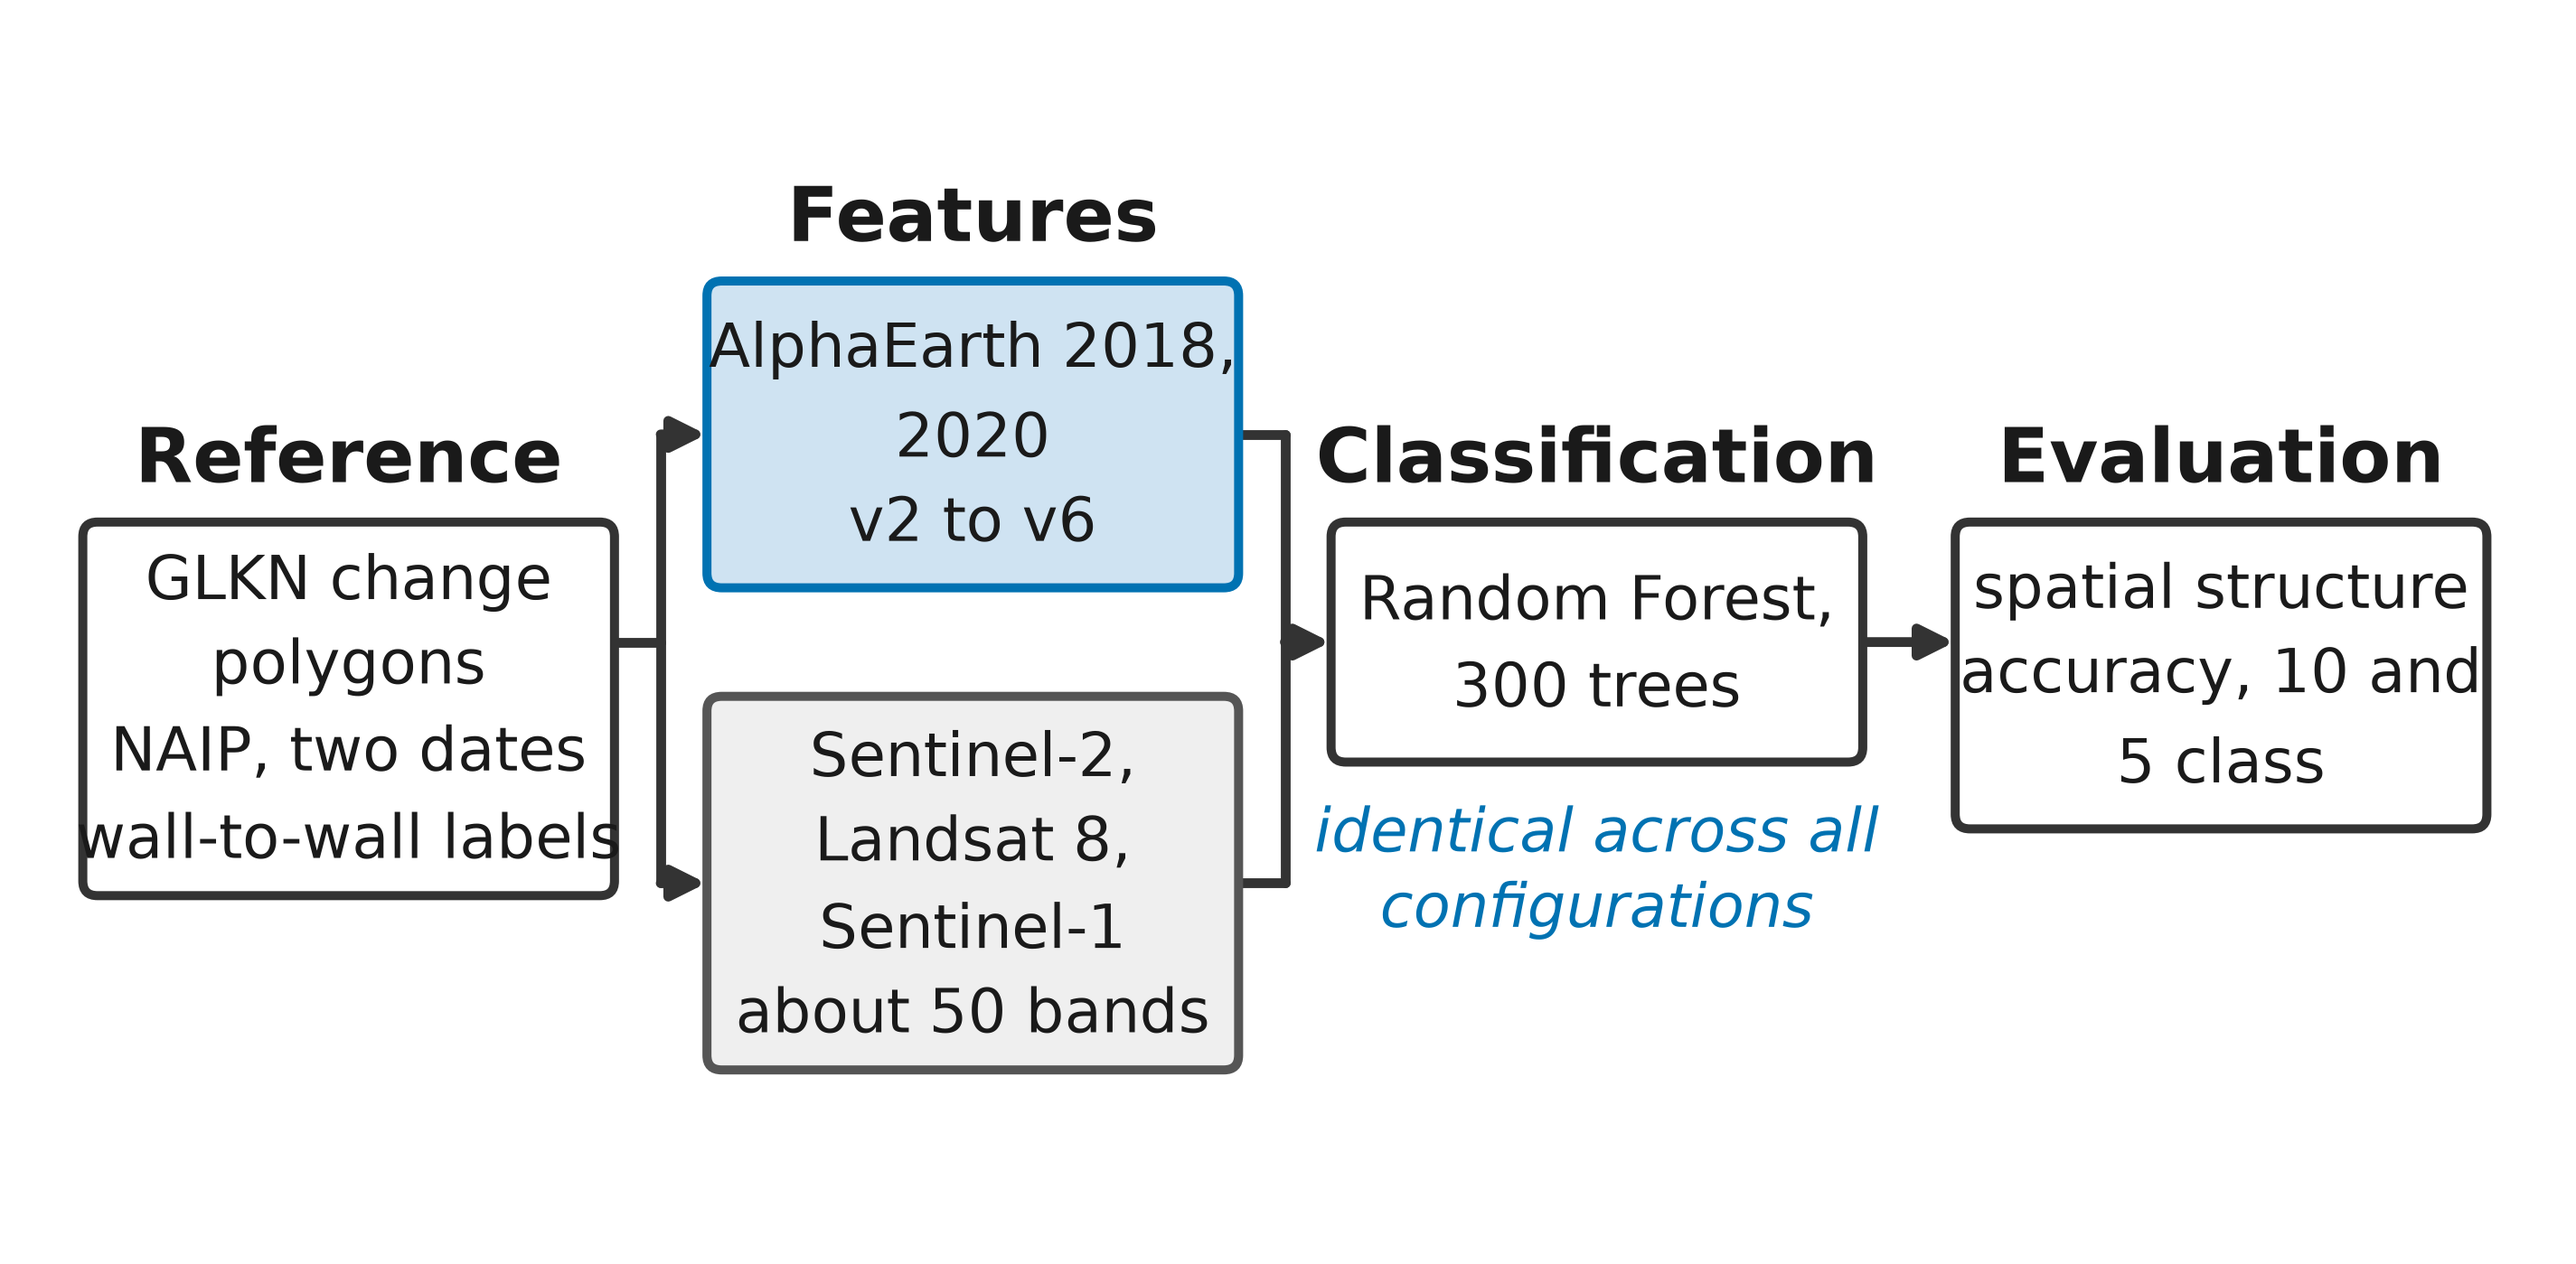
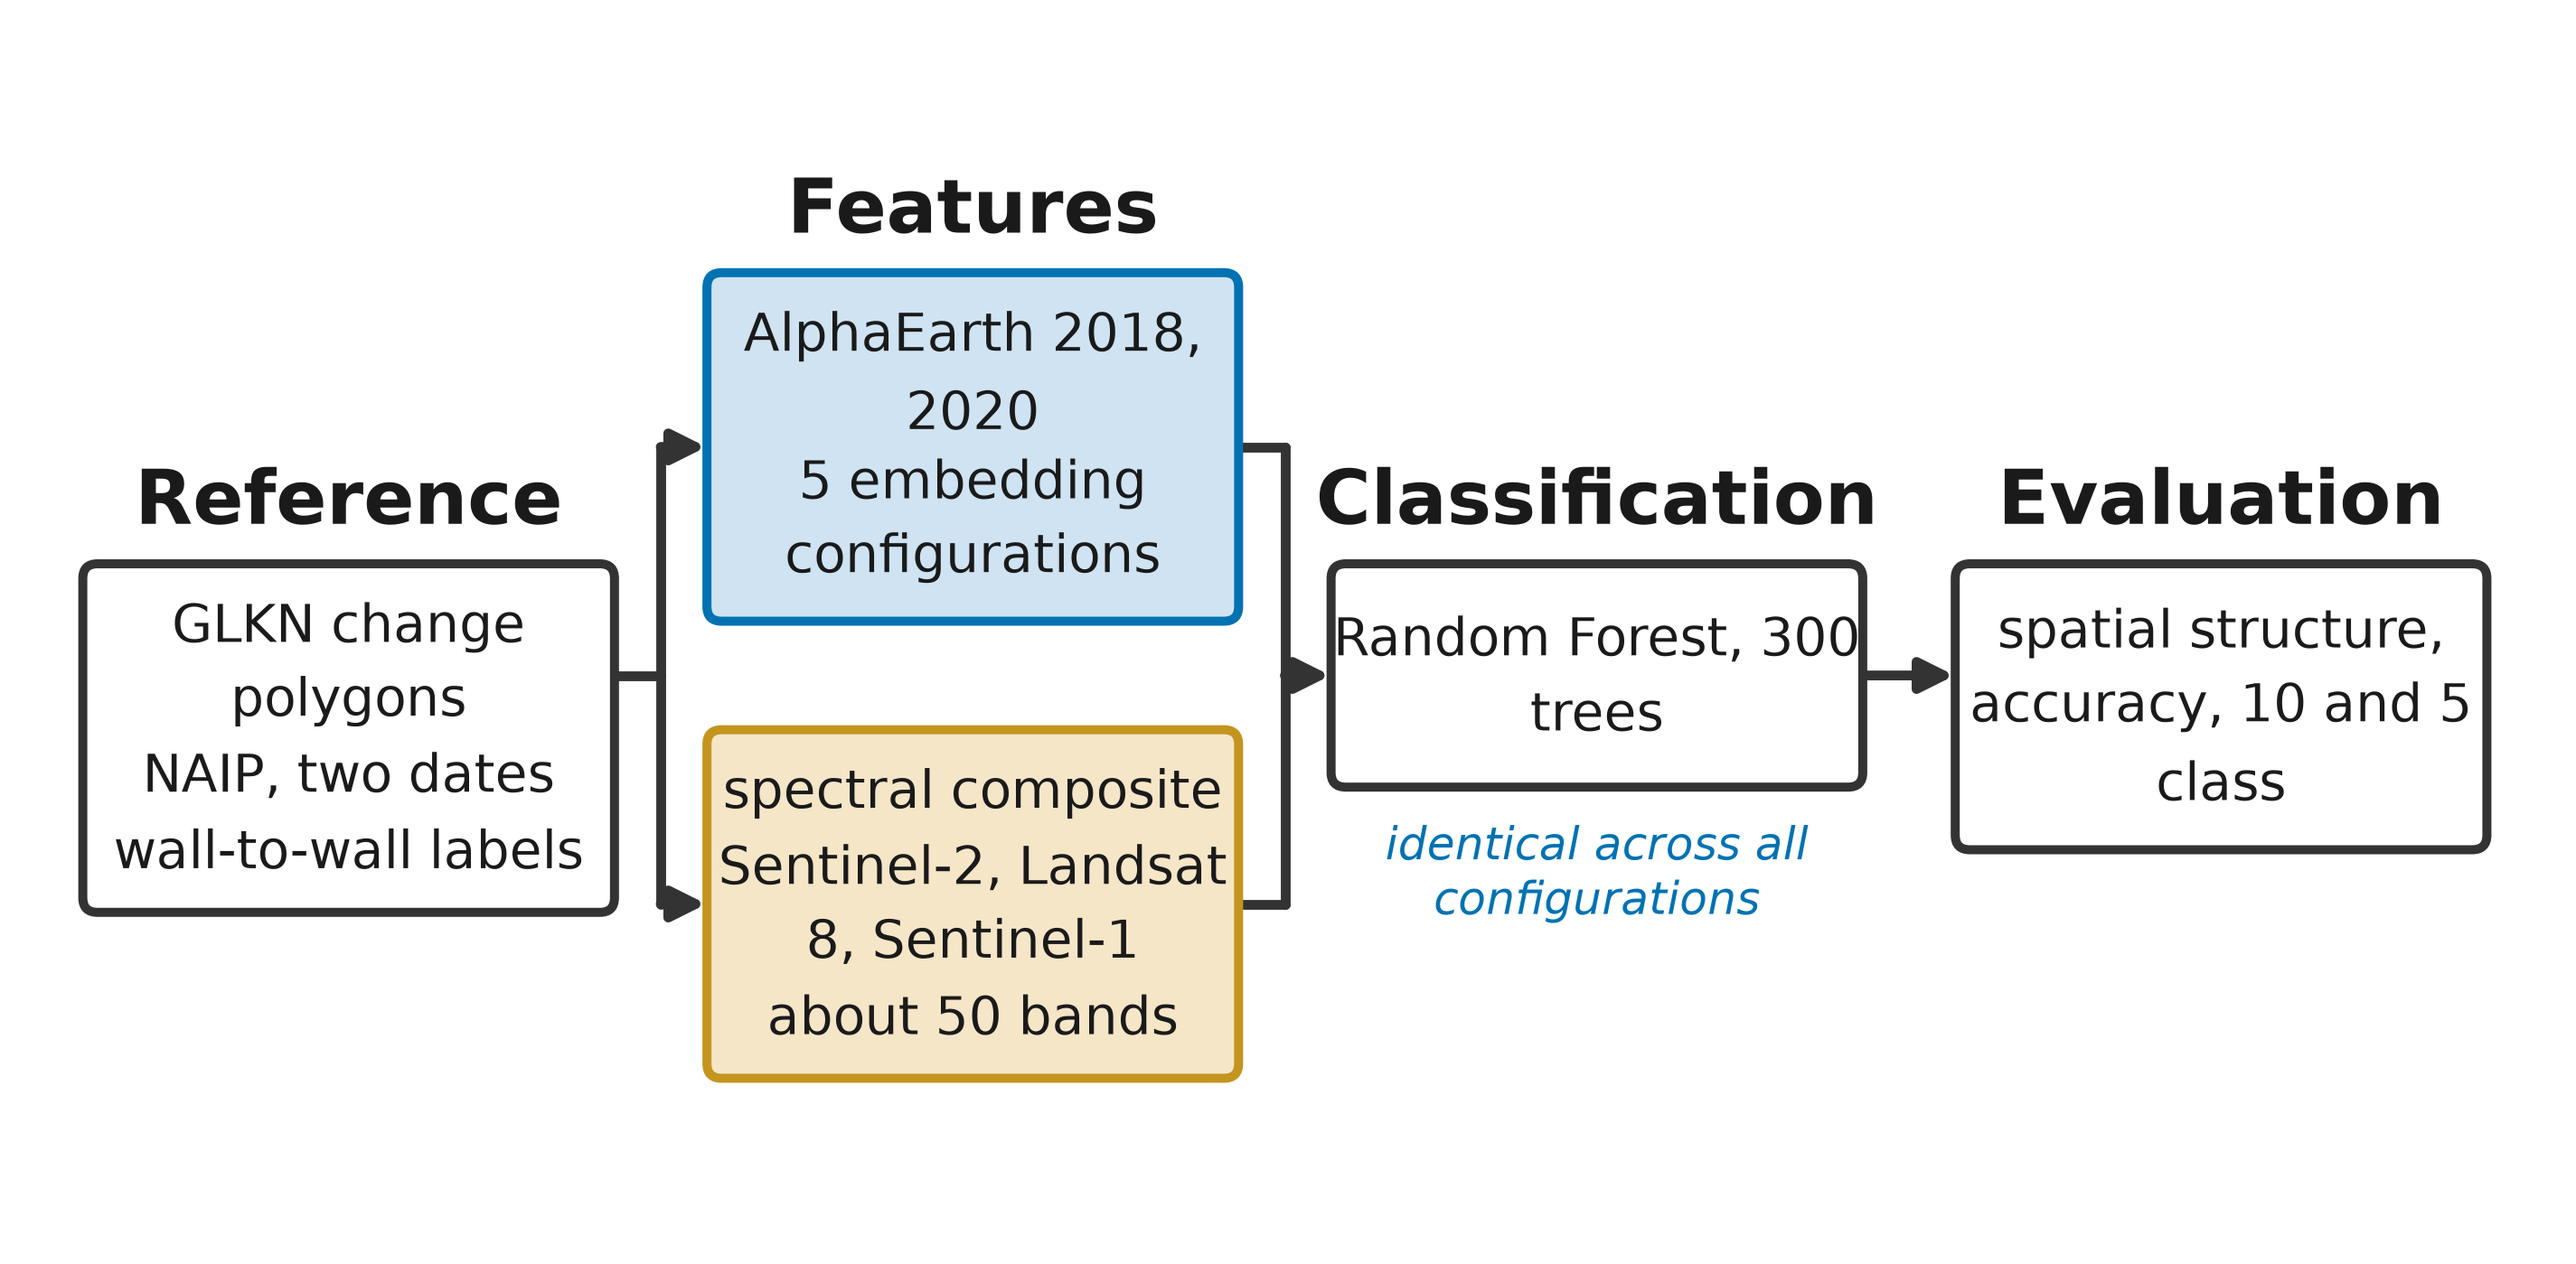
pres_11_workflow_simple: 14 pt body, amber spectral box, wording fixes
Drop body to 14 pt (and the control annotation to 12 pt) so text clears the
box walls; recolor the spectral box amber; add a "spectral composite"
descriptor to it; replace "v2 to v6" with "5 embedding configurations"; add a
comma after "spatial structure".

Changed region(s): [[0.0312, 0.1229, 0.9681, 0.8606], [0.2498, 0.3381, 0.2811, 0.3688]]

diff --git a/presentation/scripts/pres_11_workflow_simple.py b/presentation/scripts/pres_11_workflow_simple.py
@@ -29,15 +29,15 @@ ROOT = os.path.dirname(os.path.dirname(HERE))
 OUT = os.path.join(ROOT, "presentation", "figures")
 
 EMB_FILL, EMB_EDGE = "#cfe3f2", "#0072B2"
-SPEC_FILL, SPEC_EDGE = "#efefef", "#555555"
+SPEC_FILL, SPEC_EDGE = "#f5e6c8", "#c4941f"         # muted amber, complements the embedding blue
 STAGE_FILL, STAGE_EDGE = "white", "#333333"
 ARROW = "#333333"
 CONTROL = "#0072B2"
 
 FIG_W, FIG_H = 12.0, 5.8
 WB, PAD_X, GAP, MARGIN = 2.5, 0.24, 0.47, 0.28     # box width, side pad, inter-stage gap, margin (in)
-LH, VPAD = 0.32, 0.24                               # line height, box vertical pad (in)
-LABEL_FS, DETAIL_FS = 20, 16
+LH, VPAD = 0.30, 0.22                               # line height, box vertical pad (in)
+LABEL_FS, DETAIL_FS, CTRL_FS = 20, 14, 12
 DIM = {"Classification", "Evaluation"}
 INNER = WB - 2 * PAD_X
 CTRL_LINES = []
@@ -45,12 +45,14 @@ CTRL_LINES = []
 STAGES = [
     {"label": "Reference", "phrases": ["GLKN change polygons", "NAIP, two dates", "wall-to-wall labels"]},
     {"label": "Features", "branches": [
-        {"fill": EMB_FILL, "edge": EMB_EDGE, "phrases": ["AlphaEarth 2018, 2020", "v2 to v6"]},
-        {"fill": SPEC_FILL, "edge": SPEC_EDGE, "phrases": ["Sentinel-2, Landsat 8, Sentinel-1",
+        {"fill": EMB_FILL, "edge": EMB_EDGE, "phrases": ["AlphaEarth 2018, 2020",
+                                                         "5 embedding configurations"]},
+        {"fill": SPEC_FILL, "edge": SPEC_EDGE, "phrases": ["spectral composite",
+                                                          "Sentinel-2, Landsat 8, Sentinel-1",
                                                           "about 50 bands"]},
     ]},
     {"label": "Classification", "phrases": ["Random Forest, 300 trees"]},
-    {"label": "Evaluation", "phrases": ["spatial structure", "accuracy, 10 and 5 class"]},
+    {"label": "Evaluation", "phrases": ["spatial structure,", "accuracy, 10 and 5 class"]},
 ]
 CTRL_TEXT = "identical across all configurations"
 
@@ -98,7 +100,7 @@ def _wrap_all():
                 br["_lines"] = box_lines(br["phrases"])
         else:
             s["_lines"] = box_lines(s["phrases"])
-    CTRL_LINES[:] = _wrap(fig, r, CTRL_TEXT, INNER, DETAIL_FS)[0]
+    CTRL_LINES[:] = _wrap(fig, r, CTRL_TEXT, INNER, CTRL_FS)[0]
     plt.close(fig)
     return overflow
 
@@ -190,7 +192,7 @@ def draw(dim=False):
     _arrow(ax, (cx[kf + 1] + WB / 2, ca), (cx[kf + 2] - WB / 2, ca), a(STAGES[kf + 2]["label"]))
 
     ax.text(cx[kf + 1], ya + ctrl_top, "\n".join(CTRL_LINES), ha="center", va="top",
-            fontsize=DETAIL_FS, style="italic", color=CONTROL, alpha=am, zorder=4, linespacing=1.35)
+            fontsize=CTRL_FS, style="italic", color=CONTROL, alpha=am, zorder=4, linespacing=1.3)
 
     return fig, ya + max(tops), ya + min(bots)
 
@@ -219,7 +221,7 @@ def main():
 
     print(f"canvas 12 x 5.8 in; content spans y [{bot_e:.2f}, {top_e:.2f}] of 5.8")
     print("  DOES NOT FIT height" if (bot_e < 0.1 or top_e > 5.7)
-          else "  fits at 16 pt body, 20 pt labels on the fixed 12 x 5.8 in canvas.")
+          else f"  fits at {DETAIL_FS} pt body, {LABEL_FS} pt labels on the fixed 12 x 5.8 in canvas.")
     print("wrote pres_11_workflow_simple.png/.pdf and pres_11_workflow_simple_stage3.png")
 
 
